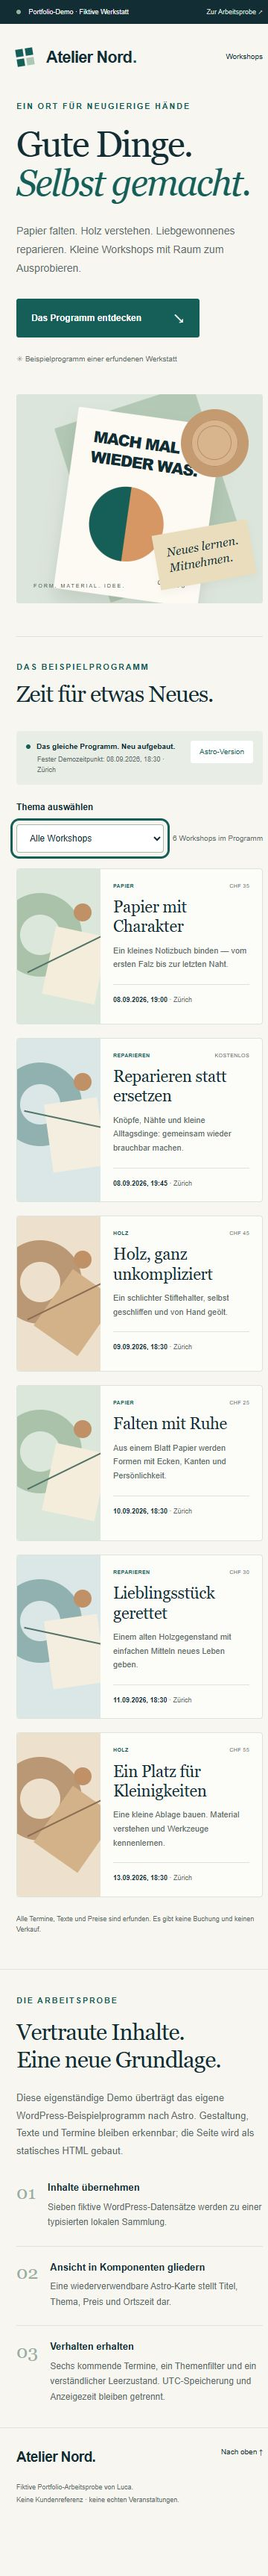
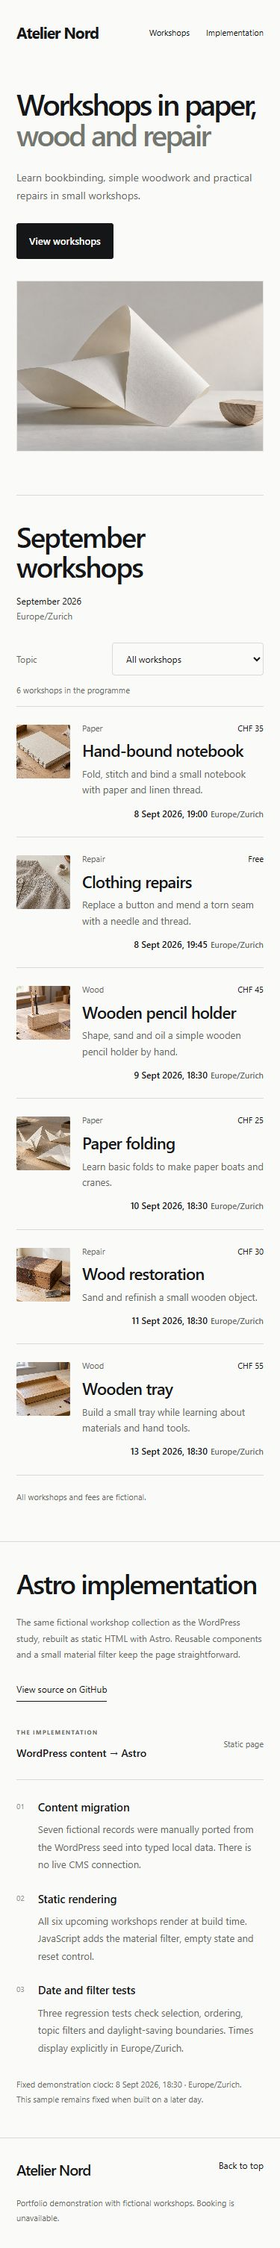
Publish reviewed screenshots and configure the GitHub Pages base path

diff --git a/README.md b/README.md
@@ -1,26 +1,26 @@
 # Atelier Nord — WordPress content rebuilt with Astro
 
-A small, independent migration exercise: the same seven fictional workshop records and the design from our [WordPress shortcode demonstration](https://github.com/luca-builds-ch/wordpress-shortcode-demo) are rebuilt as a static Astro page with a client-side topic filter.
+A static Astro implementation of the content and layout from our [WordPress shortcode sample](https://github.com/luca-builds-ch/wordpress-shortcode-demo). Seven records produce six upcoming workshops at build time; JavaScript adds material filtering, an empty state and reset without making the content depend on client-side rendering.
 
-**This is an intentional portfolio demonstration. Atelier Nord, the events and prices are fictional. It is not a client project or a paid customer reference. There is no booking, payment flow, external API or live CMS connection.**
+Atelier Nord is an independent portfolio exercise with fictional events, fees and generated imagery, not a customer project. The page has no booking, payment flow, external API or live CMS connection.
 
 ## What was transferred
 
-Content was manually ported from the WordPress demo's `demo/seed.php`; this repository is not an automated WordPress export tool. The standalone Astro page does not load PHP or connect to WordPress.
+Content was manually ported from `demo/seed.php`. This is not an automated WordPress export tool and does not load PHP or connect to WordPress.
 
 | WordPress sample | Astro implementation |
 | --- | --- |
 | `atelier_workshop` posts: title and excerpt | Typed `Workshop` records in `src/data/workshops.ts` |
 | `atelier_topic` taxonomy | Typed topic keys, shared labels and a native select filter |
 | `_atelier_start_utc` Unix seconds | Explicit UTC ISO strings ending in `Z`; compared as epoch milliseconds |
-| `_atelier_fee` | `feeChf`; zero remains “Kostenlos” |
+| `_atelier_fee` | `feeChf`; zero displays as “Free” |
 | `WP_Query` selects and orders upcoming posts | `upcomingWorkshops()` selects and orders at build time |
 | Shortcode card markup | Reusable `WorkshopCard.astro` component |
-| Own demo theme | Adapted local CSS; no external fonts or images |
+| Own demo theme | Shared original design, local CSS and local material artwork; no external font or image requests |
 
-The fixed demo instant is **8 September 2026, 18:30 in Europe/Zurich**, stored as `2026-09-08T16:30:00Z`. There are seven source records, six upcoming results and two results per populated topic. The sample intentionally stays fixed when built on a later day. It is not a production event feed or a claim of a live migration.
+The clock is fixed at **8 September 2026, 18:30 Europe/Zurich** (`2026-09-08T16:30:00Z`). There are six upcoming results and two per populated topic. Rebuilding on a later day keeps this fixed programme; it is not a live event feed.
 
-Dates are stored as instants and displayed explicitly in `Europe/Zurich`. No local timezone offset is added to stored timestamps. The source array is not mutated when results are sorted.
+Dates are compared as actual instants and displayed in `Europe/Zurich`; sorting does not mutate the source array.
 
 ## Run locally
 
@@ -33,7 +33,7 @@ pnpm build
 pnpm preview
 ```
 
-Open `http://127.0.0.1:8787/`. The preview script binds only to `127.0.0.1`. `pnpm build` runs `astro check` first and produces the static files in `dist/`.
+Open `http://127.0.0.1:8787/astro-workshop-demo/`. The preview script binds only to `127.0.0.1`. The configured `/astro-workshop-demo/` base path applies to both local preview and the prepared GitHub Pages deployment. `pnpm build` runs `astro check` first and produces the static files in `dist/`.
 
 Astro 7 starts preview as a background service. From this project directory:
 
@@ -42,17 +42,19 @@ pnpm run preview:status
 pnpm run preview:stop
 ```
 
-For development, use `pnpm dev`; stop the development process with Ctrl+C. No deployment or hosting account is configured. Building needs the normal ability to start the local esbuild subprocess.
+For development, use `pnpm dev` and stop it with Ctrl+C. The GitHub Pages workflow is prepared; a public live deployment has not yet been verified. Building starts a local esbuild subprocess.
 
 Pinned toolchain: Astro **7.3.1**, `@astrojs/check` **0.9.10**, TypeScript **6.0.3**. TypeScript 6 is deliberate: this Astro checking tool currently requires the JavaScript compiler API that TypeScript 7 does not expose.
 
 ## Behaviour to inspect
 
-1. Open `/#workshops`: all six upcoming cards render in chronological order.
-2. Select Papier, Holz or Reparieren: two matching cards remain; the live status updates.
-3. Select “Keramik · demnächst”: zero cards and a useful empty state appear. “Alle Workshops anzeigen” restores six cards and returns keyboard focus to the select.
+1. Open `/astro-workshop-demo/#workshops`: all six upcoming cards render in chronological order.
+2. Select Paper, Wood or Repair: two matching workshop rows remain; the live status updates.
+3. Select “Ceramics (no workshops)”: zero rows and a useful empty state appear. “Show all workshops” restores six rows and returns keyboard focus to the select.
 4. Disable JavaScript and reload: all six cards remain readable, the unavailable filter stays hidden, and a short explanation is shown.
-5. Use the skip link and keyboard controls; inspect narrow mobile and desktop layouts. All illustration shapes are decorative CSS and excluded from the accessibility tree.
+5. Use the skip link and keyboard controls; inspect narrow mobile and desktop layouts. Each workshop photograph has a descriptive alt attribute.
+
+The hero image is shared with the WordPress sample. Each workshop has its own local photograph selected by stable record ID, with descriptive alt text, explicit dimensions, lazy loading and bounded thumbnail sizes. No third-party brand assets are used.
 
 ## Validation
 
@@ -60,24 +62,25 @@ Executed on 8 September 2026 with Node **24.19.0** on Windows:
 
 - `pnpm test`: **3 passing tests** against the actual data and functions used by the Astro source.
 - `pnpm build`: Astro diagnostics **0 errors, 0 warnings, 0 hints**; successful static build of one page.
-- Preview HTTP check: **200**, six rendered workshop cards and the visible fictional-demo notice.
-- Independent rerun: all three tests passed and the complete checked build succeeded with Node 24.19.0.
-- Browser review at 1280 px desktop and 375 px mobile: all six cards readable, each populated topic returns two, Keramik shows the empty state, and reset restores six and returns focus to the select. The mobile document had no horizontal overflow.
+- HTTP checks: **200** for the page, hero and six workshop photographs; six rendered rows and correct title/photo/alt associations.
 
-![Actual desktop rendering](astro-desktop.png)
+The tests cover chronological selection and the inclusive cutoff, topic filters and empty results, UTC input validation, and the repeated local minute at Zurich's autumn clock change. They use Node's built-in runner with `--test-isolation=none` and do not modify source records or use the network.
 
-[Actual mobile rendering](astro-mobile.png)
+The current English page passed browser review at 1440px desktop and 375px mobile: all six photographs loaded without horizontal overflow. Paper displayed two matching workshops; Ceramics displayed the empty state; reset restored six workshops and returned focus to the topic selector. The screenshots above are actual browser captures of this revision.
 
-The tests cover chronological selection and the inclusive cutoff, each topic and the empty result, UTC input validation, and the repeated local minute at Zurich's autumn clock change. They are Node regression tests, not a simulated claim of browser testing. Browser interaction and visual review are separate from these checks.
+## Views
 
-The single-file Node test suite uses `--test-isolation=none` to avoid unnecessary worker processes in restricted local environments. It changes no source records and uses no network or private data.
+![Desktop view](astro-desktop.png?revision=photos-20260908)
+
+[Mobile view](astro-mobile.png)
 
 ## Publish manifest
 
-Publish only these **14 files**: eight source/configuration files, `.gitignore`, the lockfile, this README, LICENSE and two actual browser screenshots.
+Publish only these **24 files**, including the deployment workflow, reviewed browser screenshots and locally served imagery:
 
 ```text
 .gitignore
+.github/workflows/deploy.yml
 astro.config.mjs
 package.json
 pnpm-lock.yaml
@@ -86,6 +89,15 @@ README.md
 LICENSE
 astro-desktop.png
 astro-mobile.png
+public/atelier-material-hero.png
+public/README.md
+public/workshops/README.md
+public/workshops/handmade-notebook.png
+public/workshops/clothing-repair.png
+public/workshops/wood-pencil-holder.png
+public/workshops/paper-folding.png
+public/workshops/wood-restoration.png
+public/workshops/wooden-tray.png
 src/components/WorkshopCard.astro
 src/data/workshops.ts
 src/pages/index.astro
